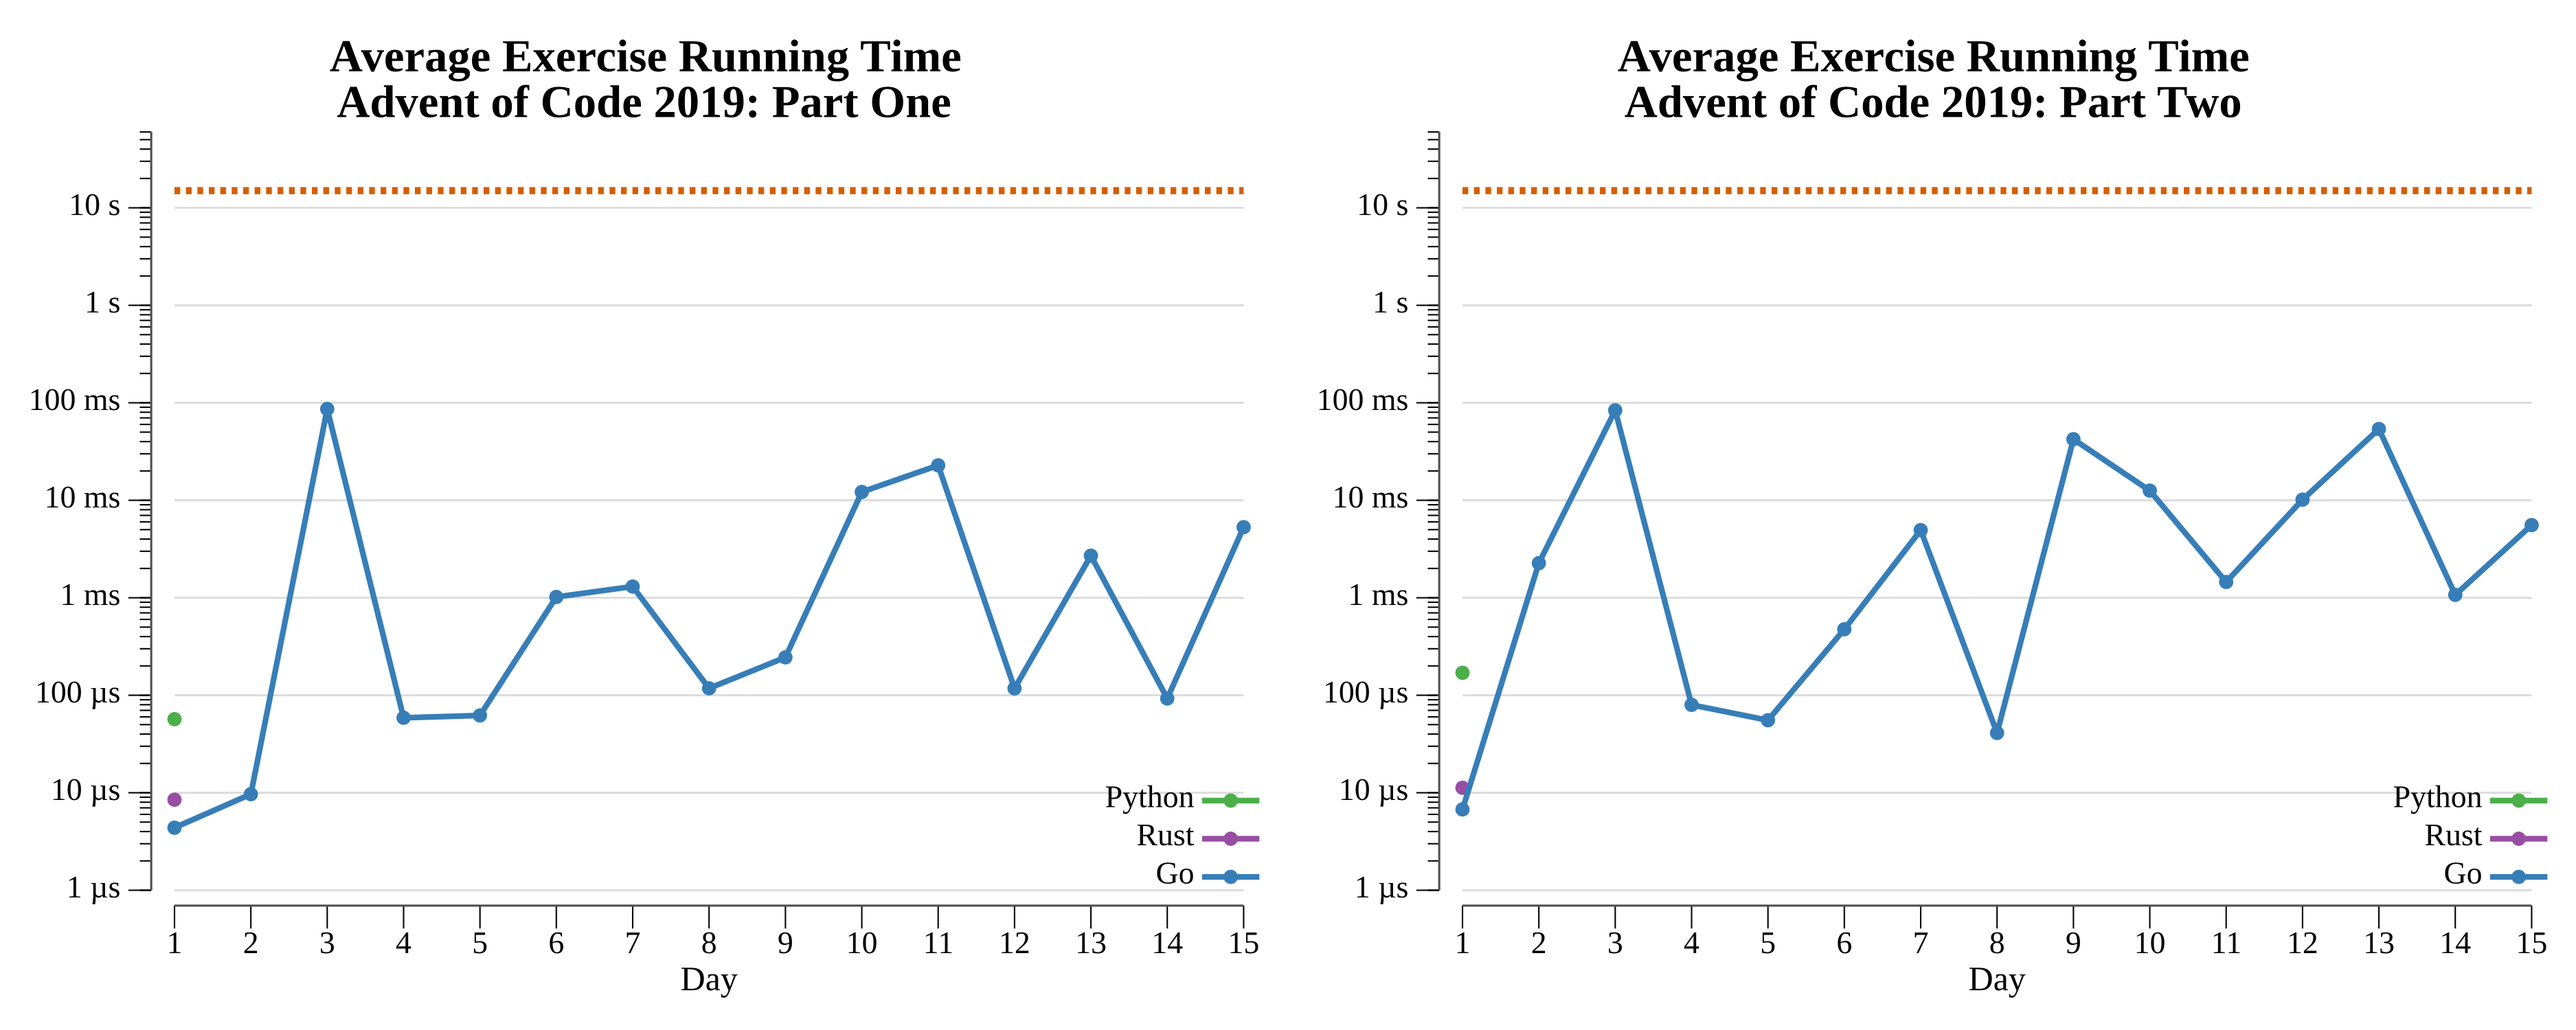
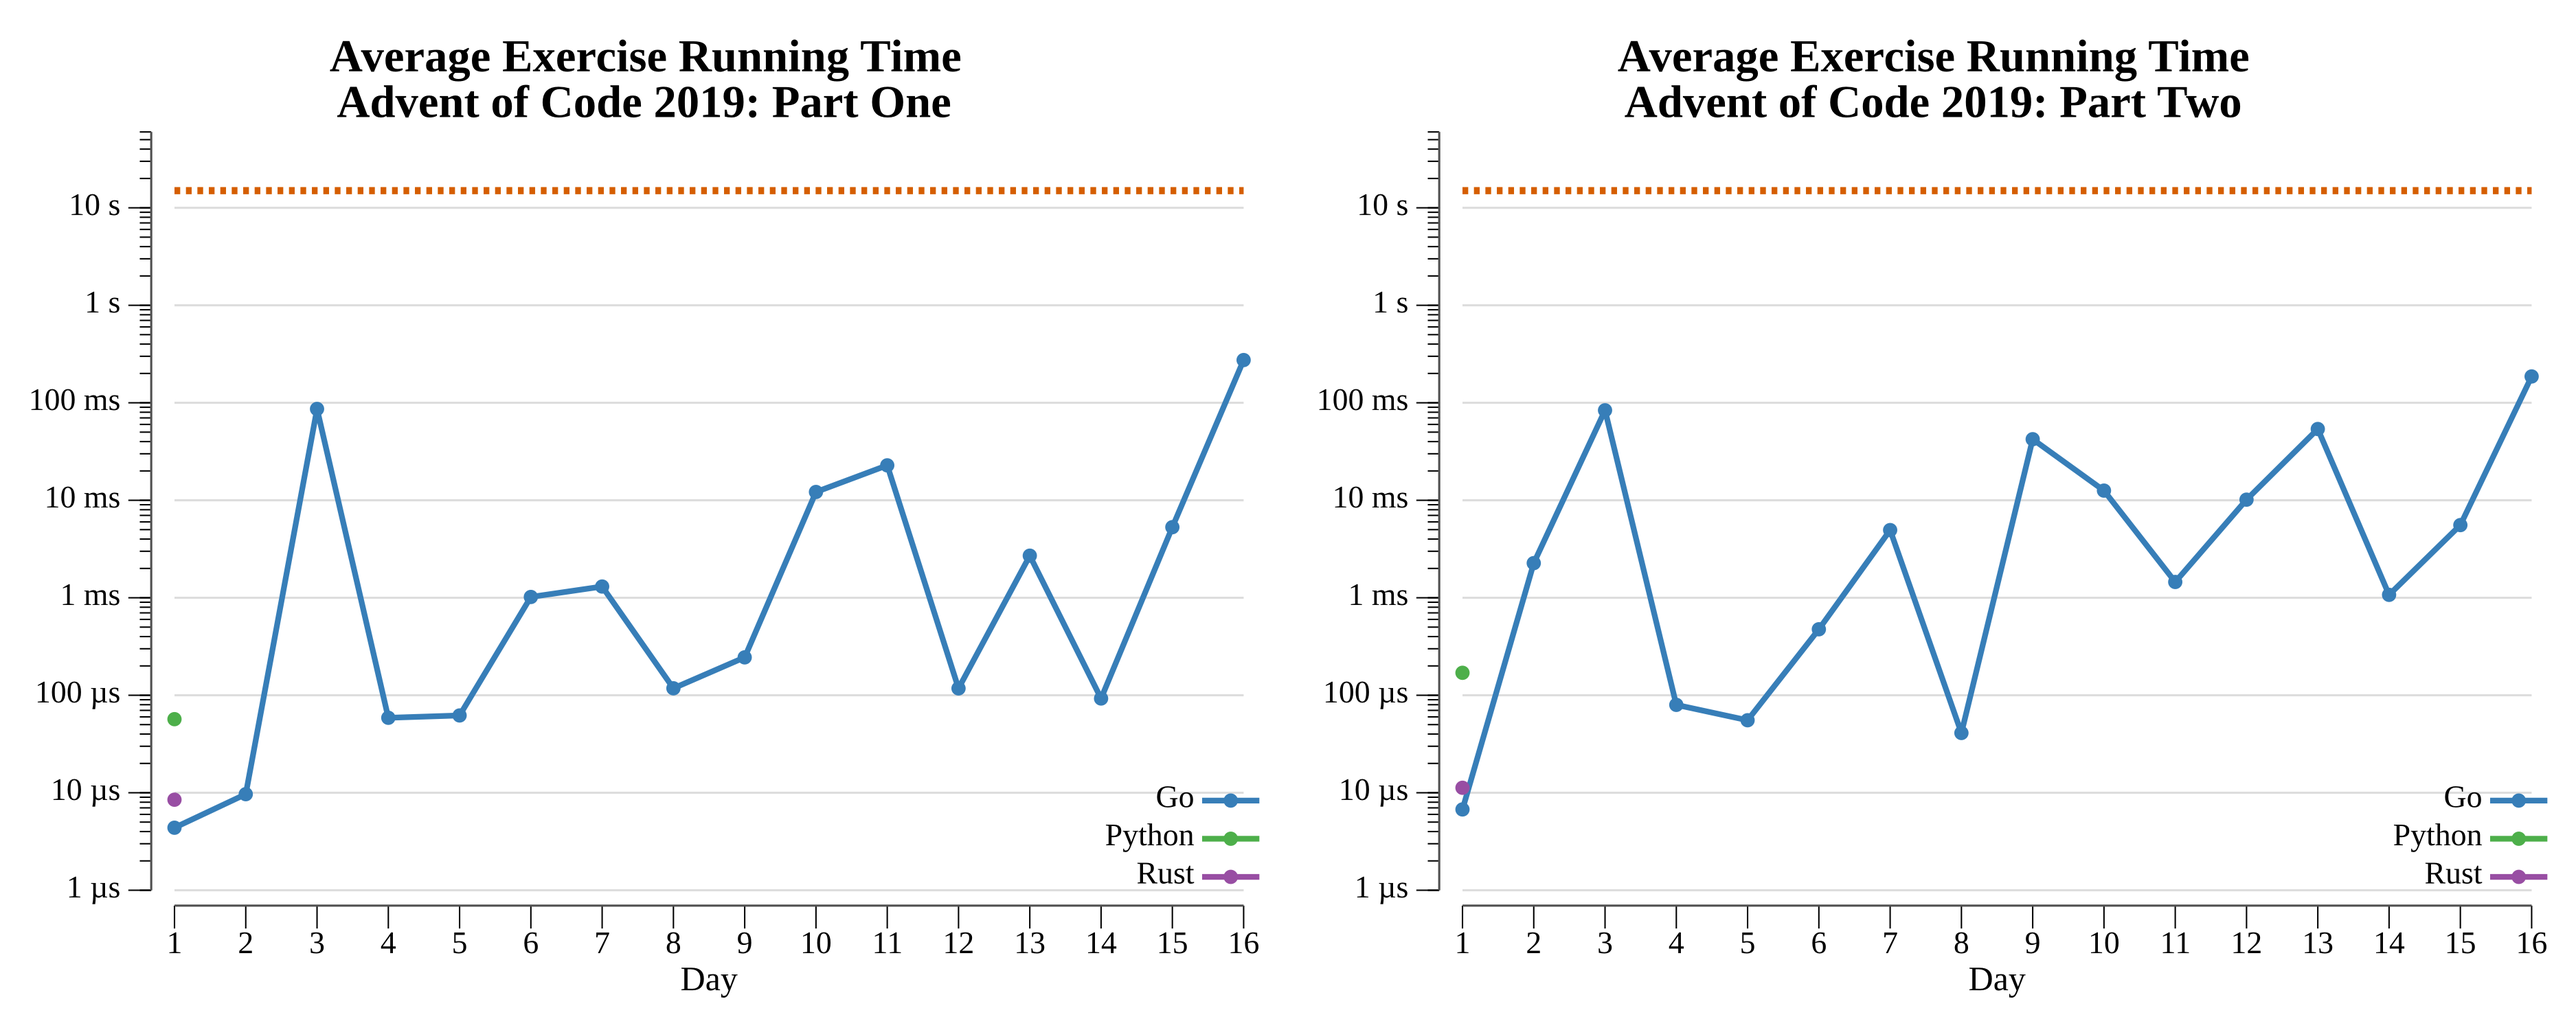
solve 2019 day 16

diff --git a/exercises/2019/16-flawedFrequencyTransmission/go/exercise.go b/exercises/2019/16-flawedFrequencyTransmission/go/exercise.go
@@ -1,0 +1,84 @@
+package exercises
+
+import (
+	"strings"
+
+	"github.com/asphaltbuffet/advent-of-code/internal/common"
+)
+
+// Exercise for Advent of Code 2019 day 16.
+type Exercise struct {
+	common.BaseExercise
+}
+
+var basePattern = [4]int{0, 1, 0, -1}
+
+func fft(signal []int) []int {
+	n := len(signal)
+	out := make([]int, n)
+	for i := 0; i < n; i++ {
+		sum := 0
+		for j := 0; j < n; j++ {
+			p := basePattern[((j+1)/(i+1))%4]
+			sum += signal[j] * p
+		}
+		if sum < 0 {
+			sum = -sum
+		}
+		out[i] = sum % 10
+	}
+	return out
+}
+
+// One returns the answer to the first part of the exercise.
+func (e Exercise) One(instr string) (any, error) {
+	s := strings.TrimSpace(instr)
+	signal := make([]int, len(s))
+	for i, b := range []byte(s) {
+		signal[i] = int(b - '0')
+	}
+
+	for phase := 0; phase < 100; phase++ {
+		signal = fft(signal)
+	}
+
+	result := make([]byte, 8)
+	for i := 0; i < 8; i++ {
+		result[i] = byte(signal[i]) + '0'
+	}
+	return string(result), nil
+}
+
+// Two returns the answer to the second part of the exercise.
+func (e Exercise) Two(instr string) (any, error) {
+	s := strings.TrimSpace(instr)
+	n := len(s)
+
+	// Parse offset from first 7 digits
+	offset := 0
+	for i := 0; i < 7; i++ {
+		offset = offset*10 + int(s[i]-'0')
+	}
+
+	total := n * 10000
+	suffixLen := total - offset
+
+	// Build suffix slice: digits from offset to end of repeated signal
+	suffix := make([]int, suffixLen)
+	for i := 0; i < suffixLen; i++ {
+		suffix[i] = int(s[(offset+i)%n] - '0')
+	}
+
+	// 100 phases: suffix sum right-to-left, mod 10
+	for phase := 0; phase < 100; phase++ {
+		for i := suffixLen - 2; i >= 0; i-- {
+			suffix[i] = (suffix[i] + suffix[i+1]) % 10
+		}
+	}
+
+	result := make([]byte, 8)
+	for i := 0; i < 8; i++ {
+		result[i] = byte(suffix[i]) + '0'
+	}
+	return string(result), nil
+}

diff --git a/exercises/2019/16-flawedFrequencyTransmission/README.md b/exercises/2019/16-flawedFrequencyTransmission/README.md
@@ -1,0 +1,40 @@
+# [Day 16: Flawed Frequency Transmission](https://adventofcode.com/2019/day/16)
+
+<!-- These are helper text to make formatting the yearly readme consistent and easier...
+
+[Day 16: Flawed Frequency Transmission][rm16]
+[Go][go16]
+
+[rm16]: 16-flawedFrequencyTransmission/README.md
+[go16]: 16-flawedFrequencyTransmission/go
+
+-->
+
+## Notes
+
+The input is a string of ~650 digits that must be transformed through 100 phases of the Flawed Frequency Transmission (FFT) algorithm.
+
+Part One applies the base pattern [0, 1, 0, −1] with each element repeated (position + 1) times and left-shifted by one, then computes each output digit as the absolute value of the dot product of the input and the pattern, mod 10. With ~650 digits and 100 phases this is an O(n²) per-phase calculation, feasible in well under a second.
+
+Part Two repeats the input 10 000 times to form a ~6.5M-digit signal and reads 8 digits at a position given by the first 7 digits of the original input. That offset always falls in the second half of the signal, where the repeating pattern simplifies to all 1s. Each phase therefore reduces to a right-to-left suffix sum mod 10, an O(n) operation per phase instead of O(n²), making 100 phases over 6.5M digits practical.
+
+## Go
+
+```text
+────────────────────────────────────────
+─    2019 Day 16: Flawed Frequency     ─
+─             Transmission             ─
+────────────────────────────────────────
+
+Testing (Go)…
+1.0:  PASS             0.672ms
+2.0:  PASS             5.638ms
+
+Solving (Go)…
+1.0:  PASS           280.094ms
+2.0:  PASS           189.189ms
+```
+
+## Run Times
+
+![Run Times](run-times.png)

diff --git a/exercises/2019/README.md b/exercises/2019/README.md
@@ -21,7 +21,7 @@
 | [Day 13: Care Package][rm_13]                     |  ★ ★  | [Go][go_13] |
 | [Day 14: Space Stoichiometry][rm_14]              |  ★ ★  | [Go][go_14] |
 | [Day 15: Oxygen System][rm_15]                    |  ★ ★  | [Go][go_15] |
-| 16                                                |  ☆ ☆  |                            |
+| [Day 16: Flawed Frequency Transmission][rm_16]   |  ★ ★  | [Go][go_16] |
 | 17                                                |  ☆ ☆  |                            |
 | 18                                                |  ☆ ☆  |                            |
 | 19                                                |  ☆ ☆  |                            |
@@ -91,3 +91,6 @@ Day       Time    Rank  Score       Time    Rank  Score
 
 [rm_15]: 15-oxygenSystem/README.md
 [go_15]: 15-oxygenSystem/go
+
+[rm_16]: 16-flawedFrequencyTransmission/README.md
+[go_16]: 16-flawedFrequencyTransmission/go
